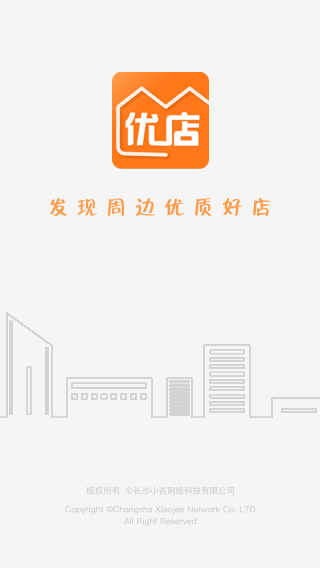
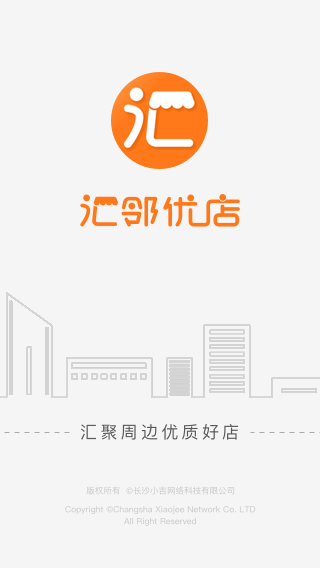
<feat> appName修改[邻家优店->汇邻优店]

diff --git a/app/components/common/Share.js b/app/components/common/Share.js
@@ -96,11 +96,11 @@ export default class Share extends Component {
   }
 
   openShareChannel = (index) => {
-    let title = this.props.title ? this.props.title : '邻家优店'
+    let title = this.props.title ? this.props.title : '汇邻优店'
     let targetUri = this.props.url || 'https://www.pgyer.com/F5Df'
-    let content = this.props.abstract ? this.props.abstract : '邻家优店'
+    let content = this.props.abstract ? this.props.abstract : '汇邻优店'
     if (index == 4) {
-      content = '\n作者：' + this.props.author + '（来自邻家优店）'
+      content = '\n作者：' + this.props.author + '（来自汇邻优店）'
     }
     let imgUri = this.props.cover ? this.props.cover : ''
     switch (index) {

diff --git a/app/util/AVUtils.js b/app/util/AVUtils.js
@@ -484,7 +484,7 @@ function _saveDeviceTokenToLeancloudAfterNotificationRegistration(payload = {}) 
 export function push(data, query) {
   let defaultData = {
     alert: '通知',
-    title: '邻家优店',
+    title: '汇邻优店',
     prod: 'dev',
     sceneName: 'MESSAGE_BOX',
     sceneParams: {}

diff --git a/app/components/Local/index.js b/app/components/Local/index.js
@@ -369,7 +369,7 @@ class Local extends Component {
         <StatusBar barStyle="dark-content"/>
         <Header
           leftType="none"
-          title="邻家优店"
+          title="汇邻优店"
           rightType="image"
           rightComponent={() => {return <MessageBell />}}
         />

diff --git a/app/api/leancloud/auth.js b/app/api/leancloud/auth.js
@@ -565,7 +565,7 @@ export function requestSmsAuthCode(payload) {
     let phone = payload.phone
     return AV.Cloud.requestSmsCode({
       mobilePhoneNumber:phone,
-      name: '邻家优店',
+      name: '汇邻优店',
       op: '注册',
       ttl: 10}).then(function () {
       // do nothing

diff --git a/app/components/Home/index.js b/app/components/Home/index.js
@@ -308,7 +308,7 @@ class Home extends Component {
           leftImageLabel={this.props.city}
           leftPress={() => {
           }}
-          title="邻家优店"
+          title="汇邻优店"
           rightComponent={() => {
             return <MessageBell />
           }}

diff --git a/app/constants/appConfig.js b/app/constants/appConfig.js
@@ -1,7 +1,7 @@
 /**
  * Created by zachary on 2016/12/20.
  */
-export const APP_NAME = '邻家优店'
+export const APP_NAME = '汇邻优店'
 
 export const LC_DEV_APP_ID = 'K5Rltwmfnxd5pYjMsOFFL0kT-gzGzoHsz'
 export const LC_DEV_APP_KEY = 'UseC5jvqLT7TIiQWI8nRPmEl'

diff --git a/ios/shareComponent.m b/ios/shareComponent.m
@@ -50,8 +50,8 @@
   RCT_EXPORT_METHOD(shareURLWithPlate:(NSInteger)index info:(NSDictionary *)info){
     //创建分享消息对象
     UMSocialMessageObject *messageObject = [UMSocialMessageObject messageObject];
-    NSString *title = [info objectForKey:@"title"]?[info objectForKey:@"title"]:@"邻家优店";
-    NSString *descr = [info objectForKey:@"descr"]?[info objectForKey:@"descr"]:@"邻家优店";
+    NSString *title = [info objectForKey:@"title"]?[info objectForKey:@"title"]:@"汇邻优店";
+    NSString *descr = [info objectForKey:@"descr"]?[info objectForKey:@"descr"]:@"汇邻优店";
     
     NSString *thumbURL = [info objectForKey:@"thumbURL"]?[info objectForKey:@"thumbURL"]:@"https://simors.github.io/ljyd_blog/ic_launcher.png";
     
